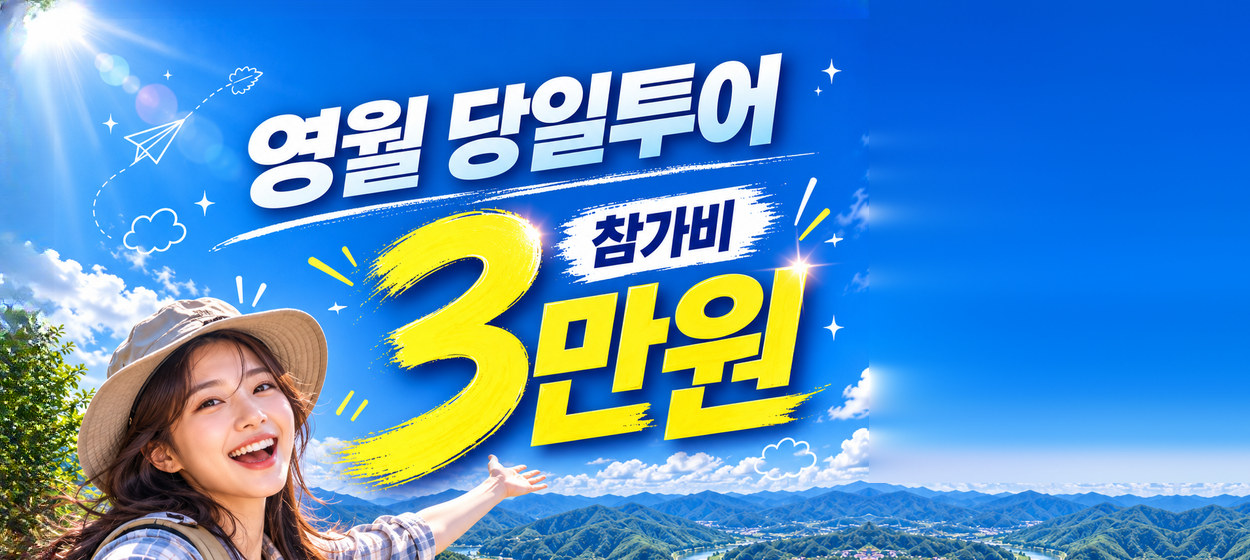
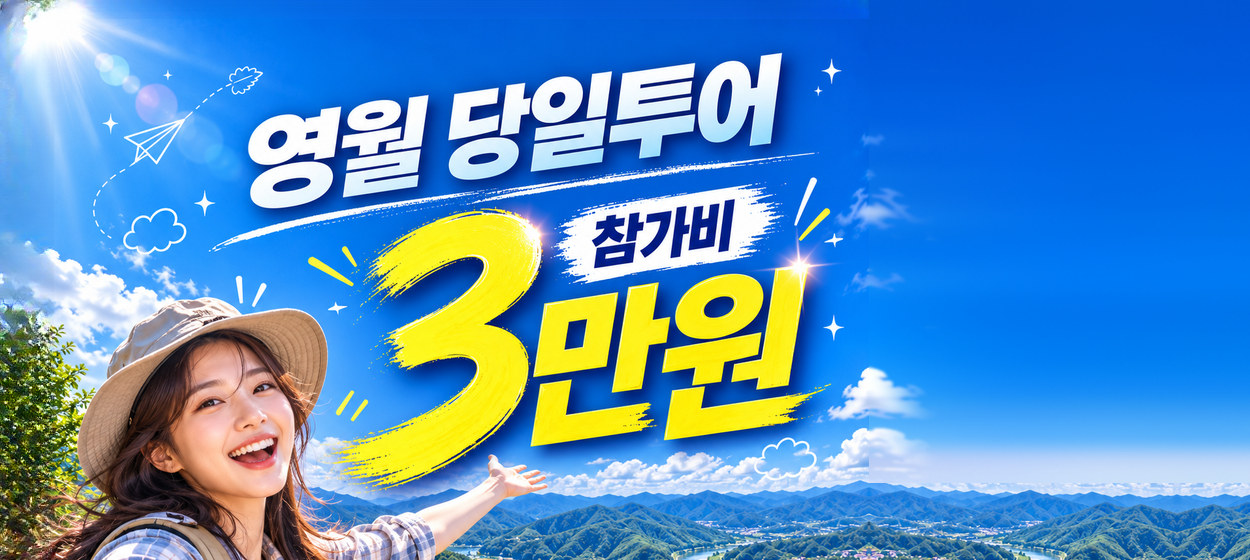
feat: 하늘 확장에서 가장자리 구름을 대칭·가로 확대로 이어 붙임

Changed region(s): [[0.6864, 0.6375, 0.7488, 0.85], [0.6864, 0.3339, 0.7176, 0.3946], [0.6864, 0.4857, 0.7176, 0.5161]]

diff --git a/imageifx/fill.py b/imageifx/fill.py
@@ -97,7 +97,7 @@ def mirror_right(canvas: Image.Image, covered: np.ndarray, y_from: int, x_min: i
     return Image.fromarray(a), filled
 
 
-def sky_right(canvas: Image.Image, covered: np.ndarray, y_to: int, cols=60, seed=7):
+def sky_right(canvas: Image.Image, covered: np.ndarray, y_to: int, cols=60, seed=7, cloud_cols=34, cloud_stretch=2.2):
     """오른쪽 확장의 y_to 위쪽(하늘)을 AI 대신 하늘 색 모델로 채운다. AI 채움은 하늘에서 단계마다 세로 줄무늬(물결 결)가 생긴다.
     행마다 원본 오른쪽 가장자리 cols 열의 중앙값(구름·반짝이는 이상치 제외)을 하늘색 프로필로 쓰고, 경계 색 차이는 멀어질수록 사라지게 이어 붙이며,
     원본 하늘의 입자(고주파 잡음)와 아주 완만한 밝기 변화를 더해 밋밋한 면이 되지 않게 한다. (채운 canvas, 채운 곳 mask) 반환."""
@@ -130,10 +130,16 @@ def sky_right(canvas: Image.Image, covered: np.ndarray, y_to: int, cols=60, seed
     d = cv2.GaussianBlur(d.reshape(-1, 1, 3), (1, 0), sigmaX=0.1, sigmaY=10).reshape(-1, 3)
     ramp = np.exp(-np.arange(n) / 90.0)[None, :, None]
     out += d[:, None, :] * ramp
-    big = a[:y_to, c1 - 1] - prof - d                                 # 구름처럼 큰 차이는 짧게(약 20px) 번지며 사라져 구름이 칼로 자른 듯 끝나지 않게
-    big[:first] = 0
-    big = cv2.GaussianBlur(big.reshape(-1, 1, 3), (1, 0), sigmaX=0.1, sigmaY=5).reshape(-1, 3)
-    out += big[:, None, :] * np.exp(-np.arange(n) / 20.0)[None, :, None]
+    # 가장자리에 걸린 구름: 가장자리 기준 좌우 대칭으로 이어 붙이되 가로로 늘려(구름은 옆으로 길게 퍼지므로) 모양이 끝나며 사라지게 한다.
+    # 한 줄을 번지게 하면 가로 줄이 생기고, 같은 폭을 그대로 뒤집으면 복제 조각이 되어 보이기 때문
+    nm = min(cloud_cols, c1 - c0)
+    res = (a[:y_to, c1 - nm:c1][:, ::-1] - (prof + d)[:, None, :]).astype(np.float32)   # k=0이 가장자리
+    res[:first] = 0
+    res *= np.clip((res.mean(-1, keepdims=True) - 6) / 10, 0, 1)                 # 하늘보다 확실히 밝은 곳(구름)만
+    wd = min(n, int(round(nm * cloud_stretch)))
+    res = cv2.resize(res, (wd, y_to), interpolation=cv2.INTER_CUBIC)
+    res = cv2.GaussianBlur(res, (0, 0), 1.2)
+    out[:, :wd] += res * (np.cos(np.pi / 2 * np.arange(wd) / wd) ** 2)[None, :, None]
     rng = np.random.default_rng(seed)
     lo = rng.normal(0, 1, (max(2, y_to // 80), max(2, n // 80), 3)).astype(np.float32)   # 아주 완만한 밝기 변화(±1.5 안팎)
     out += cv2.resize(lo, (n, y_to), interpolation=cv2.INTER_CUBIC) * 1.5

diff --git a/docs/cases.md b/docs/cases.md
@@ -26,7 +26,8 @@
 | 하늘에 **세로 물결 줄무늬** | 한 번에 넓게 채우거나 96px 단계 경계마다 LaMa 결과가 어긋남 | 하늘 구간은 AI 대신 **하늘 색 프로필 + 입자 잡음**(`fill.sky_right`): 행별 파란 하늘 색, 경계 색차는 멀어질수록 0, 구름은 약 20px 안에 흐려져 사라짐 | `yeongwol_lama_streaks_before.jpg` |
 | 반사에 인물 손이 복제돼 분홍 조각 | 반사 범위에 손이 포함 | `mirror_src_x0`로 손 왼쪽 열 제외, 낙서 구름 아래부터 반사(`mirror_gap_px`) | |
 | 위쪽 빈 띠가 검게 남음 | 옆 확장을 먼저 하면 검은색이 맥락이 됨 | 원본 열의 위/아래 빈 띠를 먼저 채운 뒤 옆으로(`fill.outpaint_progressive`) | |
-| 하늘 쪽에서 수평 번짐(줄) | 가장자리 구름·반짝이가 프로필에 섞임 | 하늘색만 골라 평균(붉은 기가 낮은 픽셀), 큰 차이는 짧게 감쇠 | |
+| 하늘 쪽에서 수평 번짐(줄) | 가장자리 구름·반짝이가 프로필에 섞임 | 하늘색만 골라 평균(붉은 기가 낮은 픽셀) | |
+| 가장자리 구름이 칼로 자른 듯 끝나거나 번짐 | 구름을 한 열만 복제하면 줄, 그대로 뒤집으면 복제 조각 | 구름 잔차(하늘보다 밝은 부분)를 가장자리 34px 기준 **대칭으로 이어 붙이고 가로 2.2배 늘려** 서서히 사라지게(`sky_right`의 `cloud_cols`·`cloud_stretch`) | `yeongwol_whole_final.jpg` |
 - **남은 한계**: 하늘이 매끈해 오른쪽이 약간 평평하고, 원본 오른쪽 끝에서 약 868px 지점에 옅은 이음선이 남는다. 반사는 글자가 없는 구간에서만 쓸 수 있다(글자가 뒤집혀 복사됨).
 - **왼쪽 확장**(54px 안팎, 인물이 가장자리에 걸린 경우): 반사하면 머리카락·팔이 대칭으로 보이므로 단계적 LaMa를 쓴다.
 
